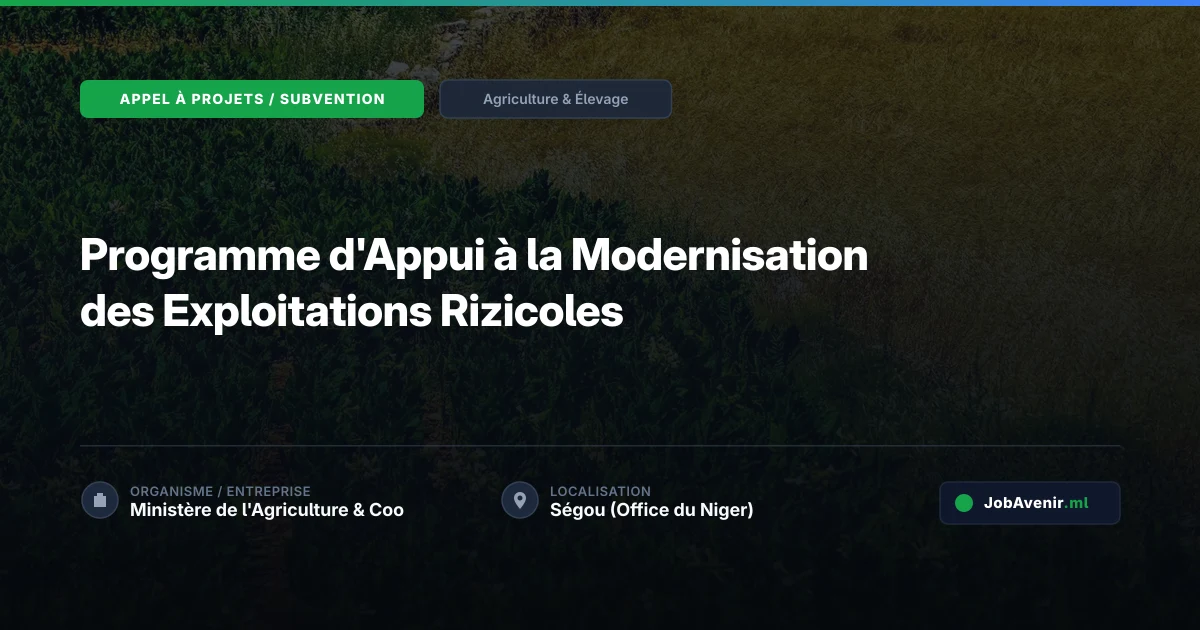
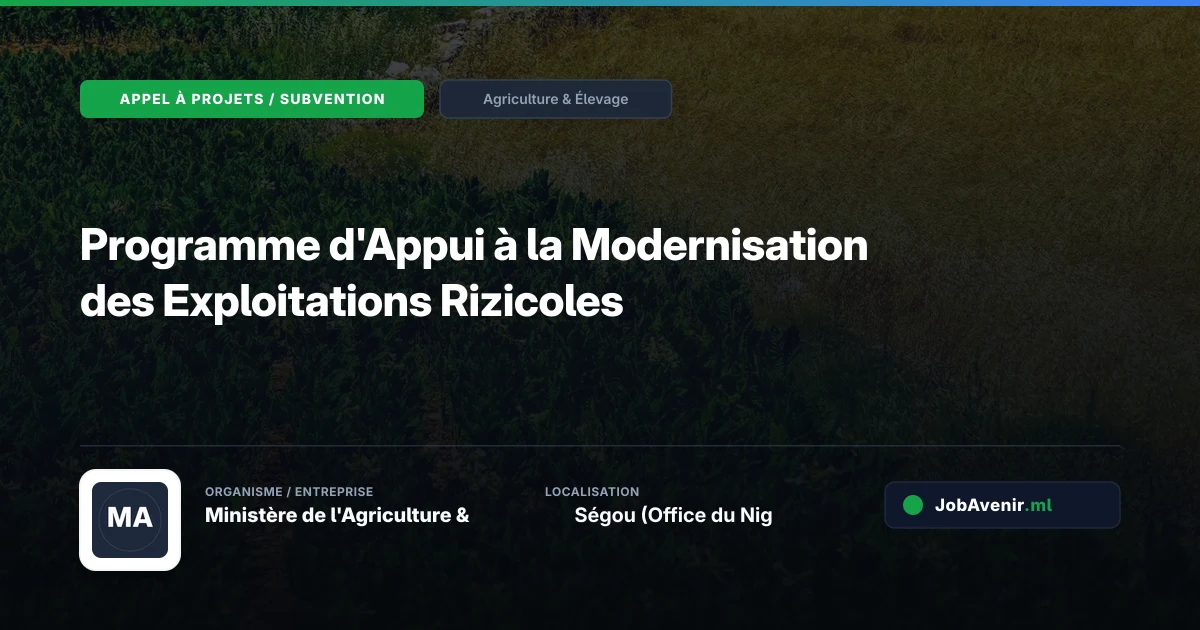
feat(seo): enrich Open Graph and preview metadata across pages (WhatsApp, Telegram, TikTok, Twitter)

diff --git a/src/lib/og-generator.ts b/src/lib/og-generator.ts
@@ -22,7 +22,8 @@ const OPPORTUNITY_LABELS: Record<string, string> = {
   STAGE: 'STAGE PROFESSIONNEL',
   TRAINING: 'FORMATION PROFESSIONNELLE',
   PROJECT_CALL: 'APPEL À PROJETS / SUBVENTION',
-  ANNOUNCEMENT: 'VEILLE & OPPORTUNITÉ'
+  ANNOUNCEMENT: 'VEILLE & OPPORTUNITÉ',
+  IDEA: 'IDÉE BUSINESS & PROJET'
 };
 
 /**
